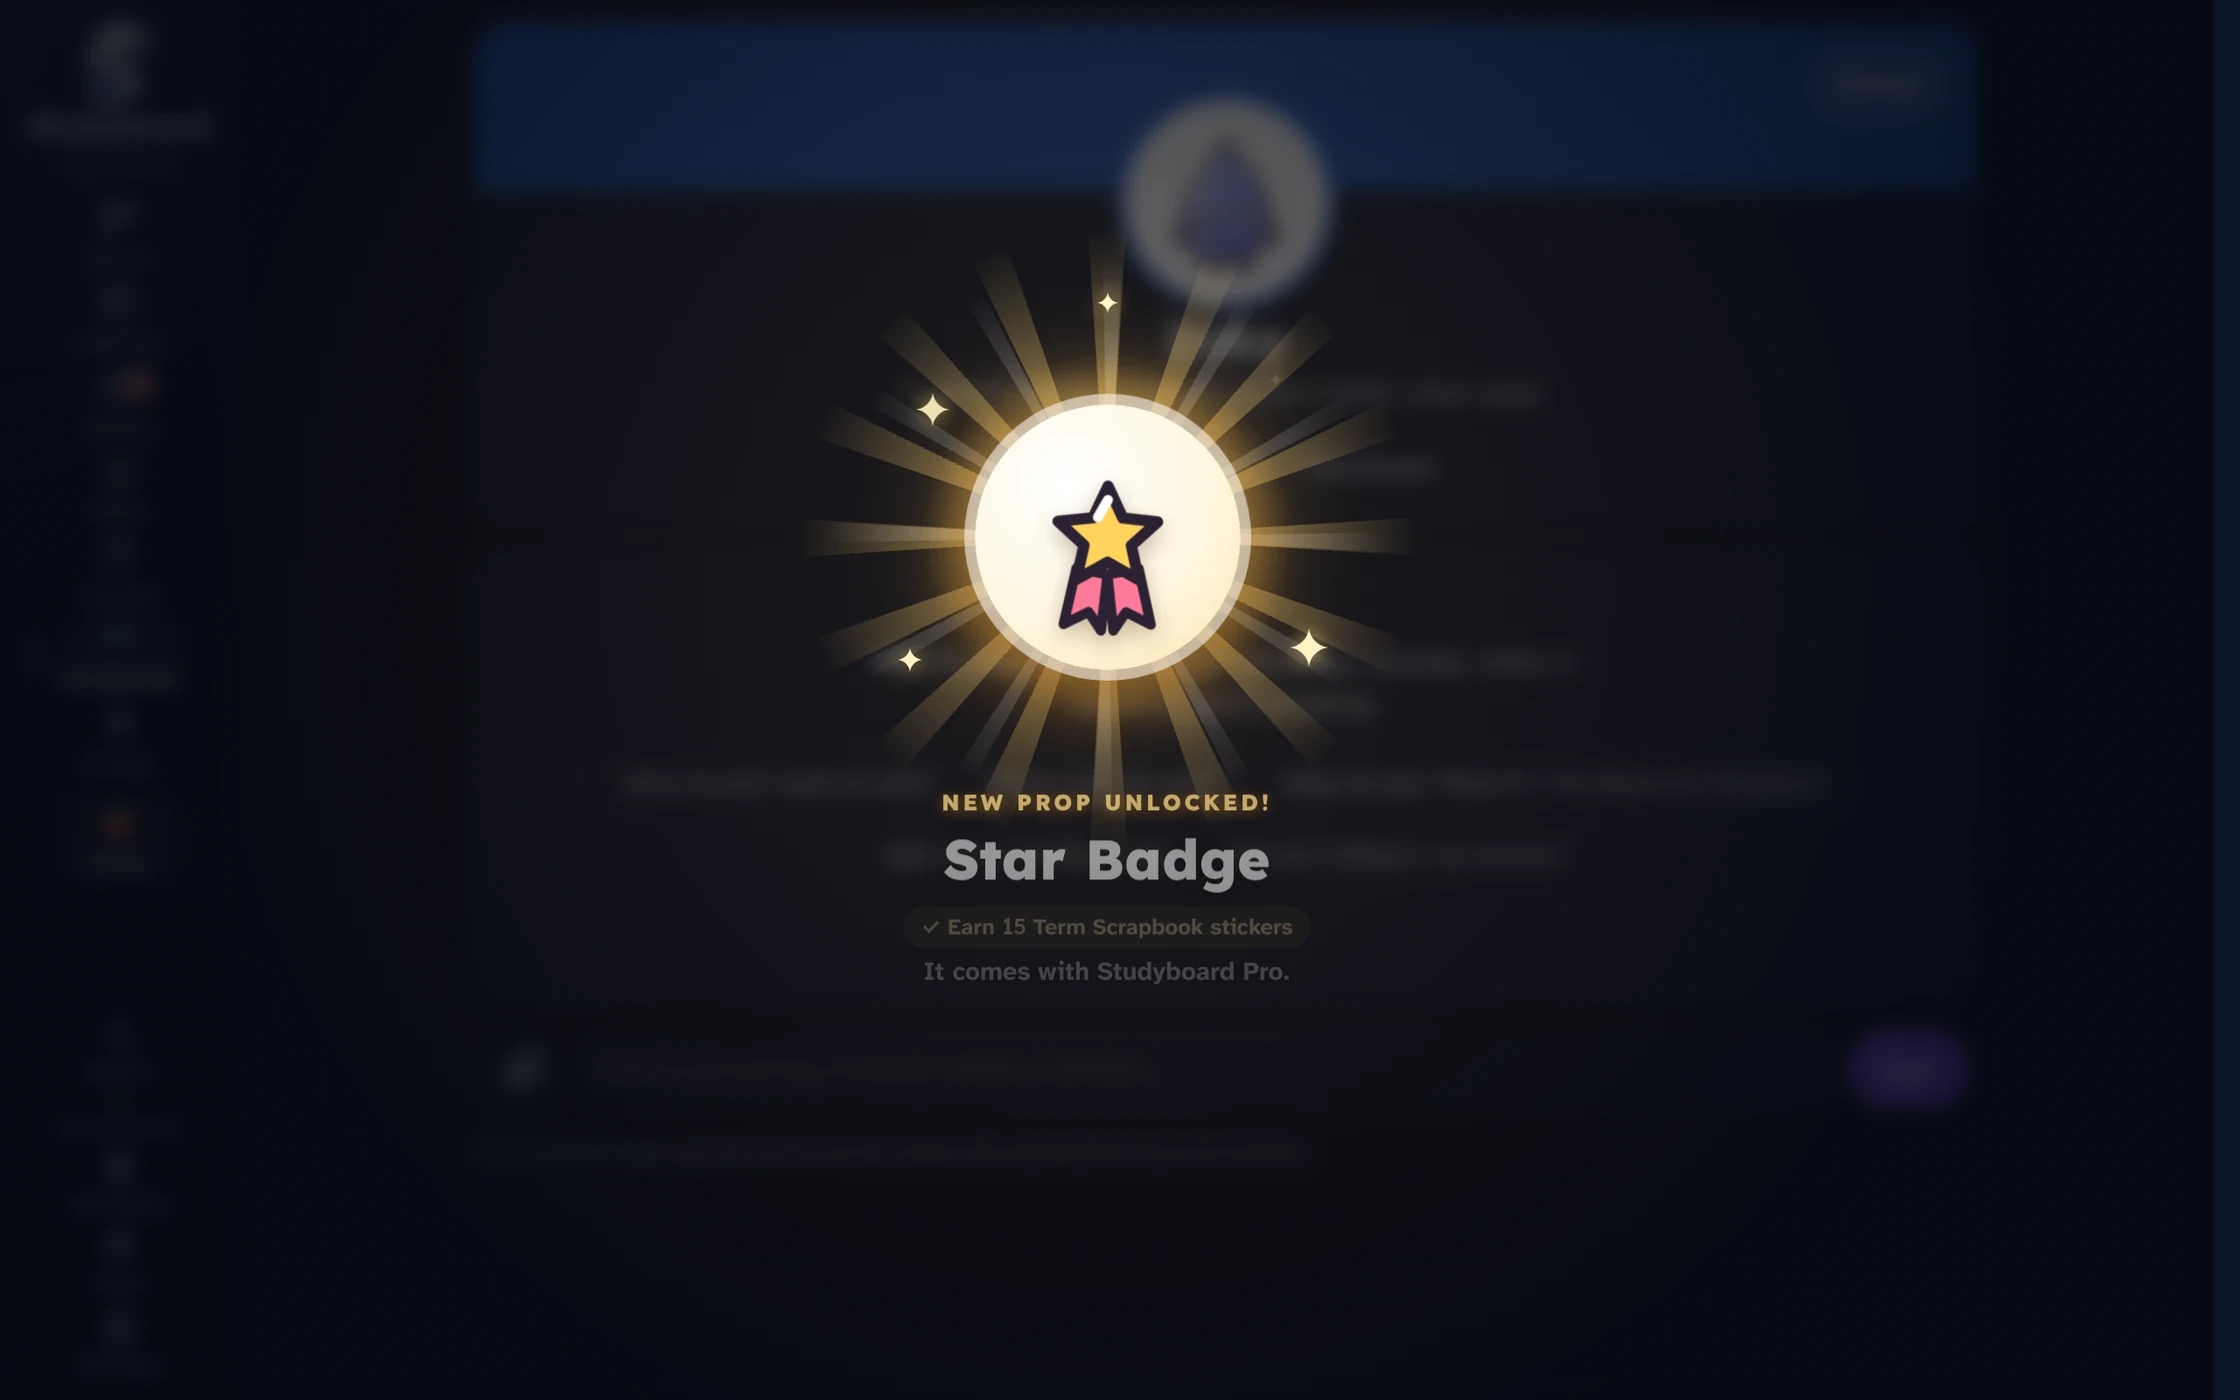
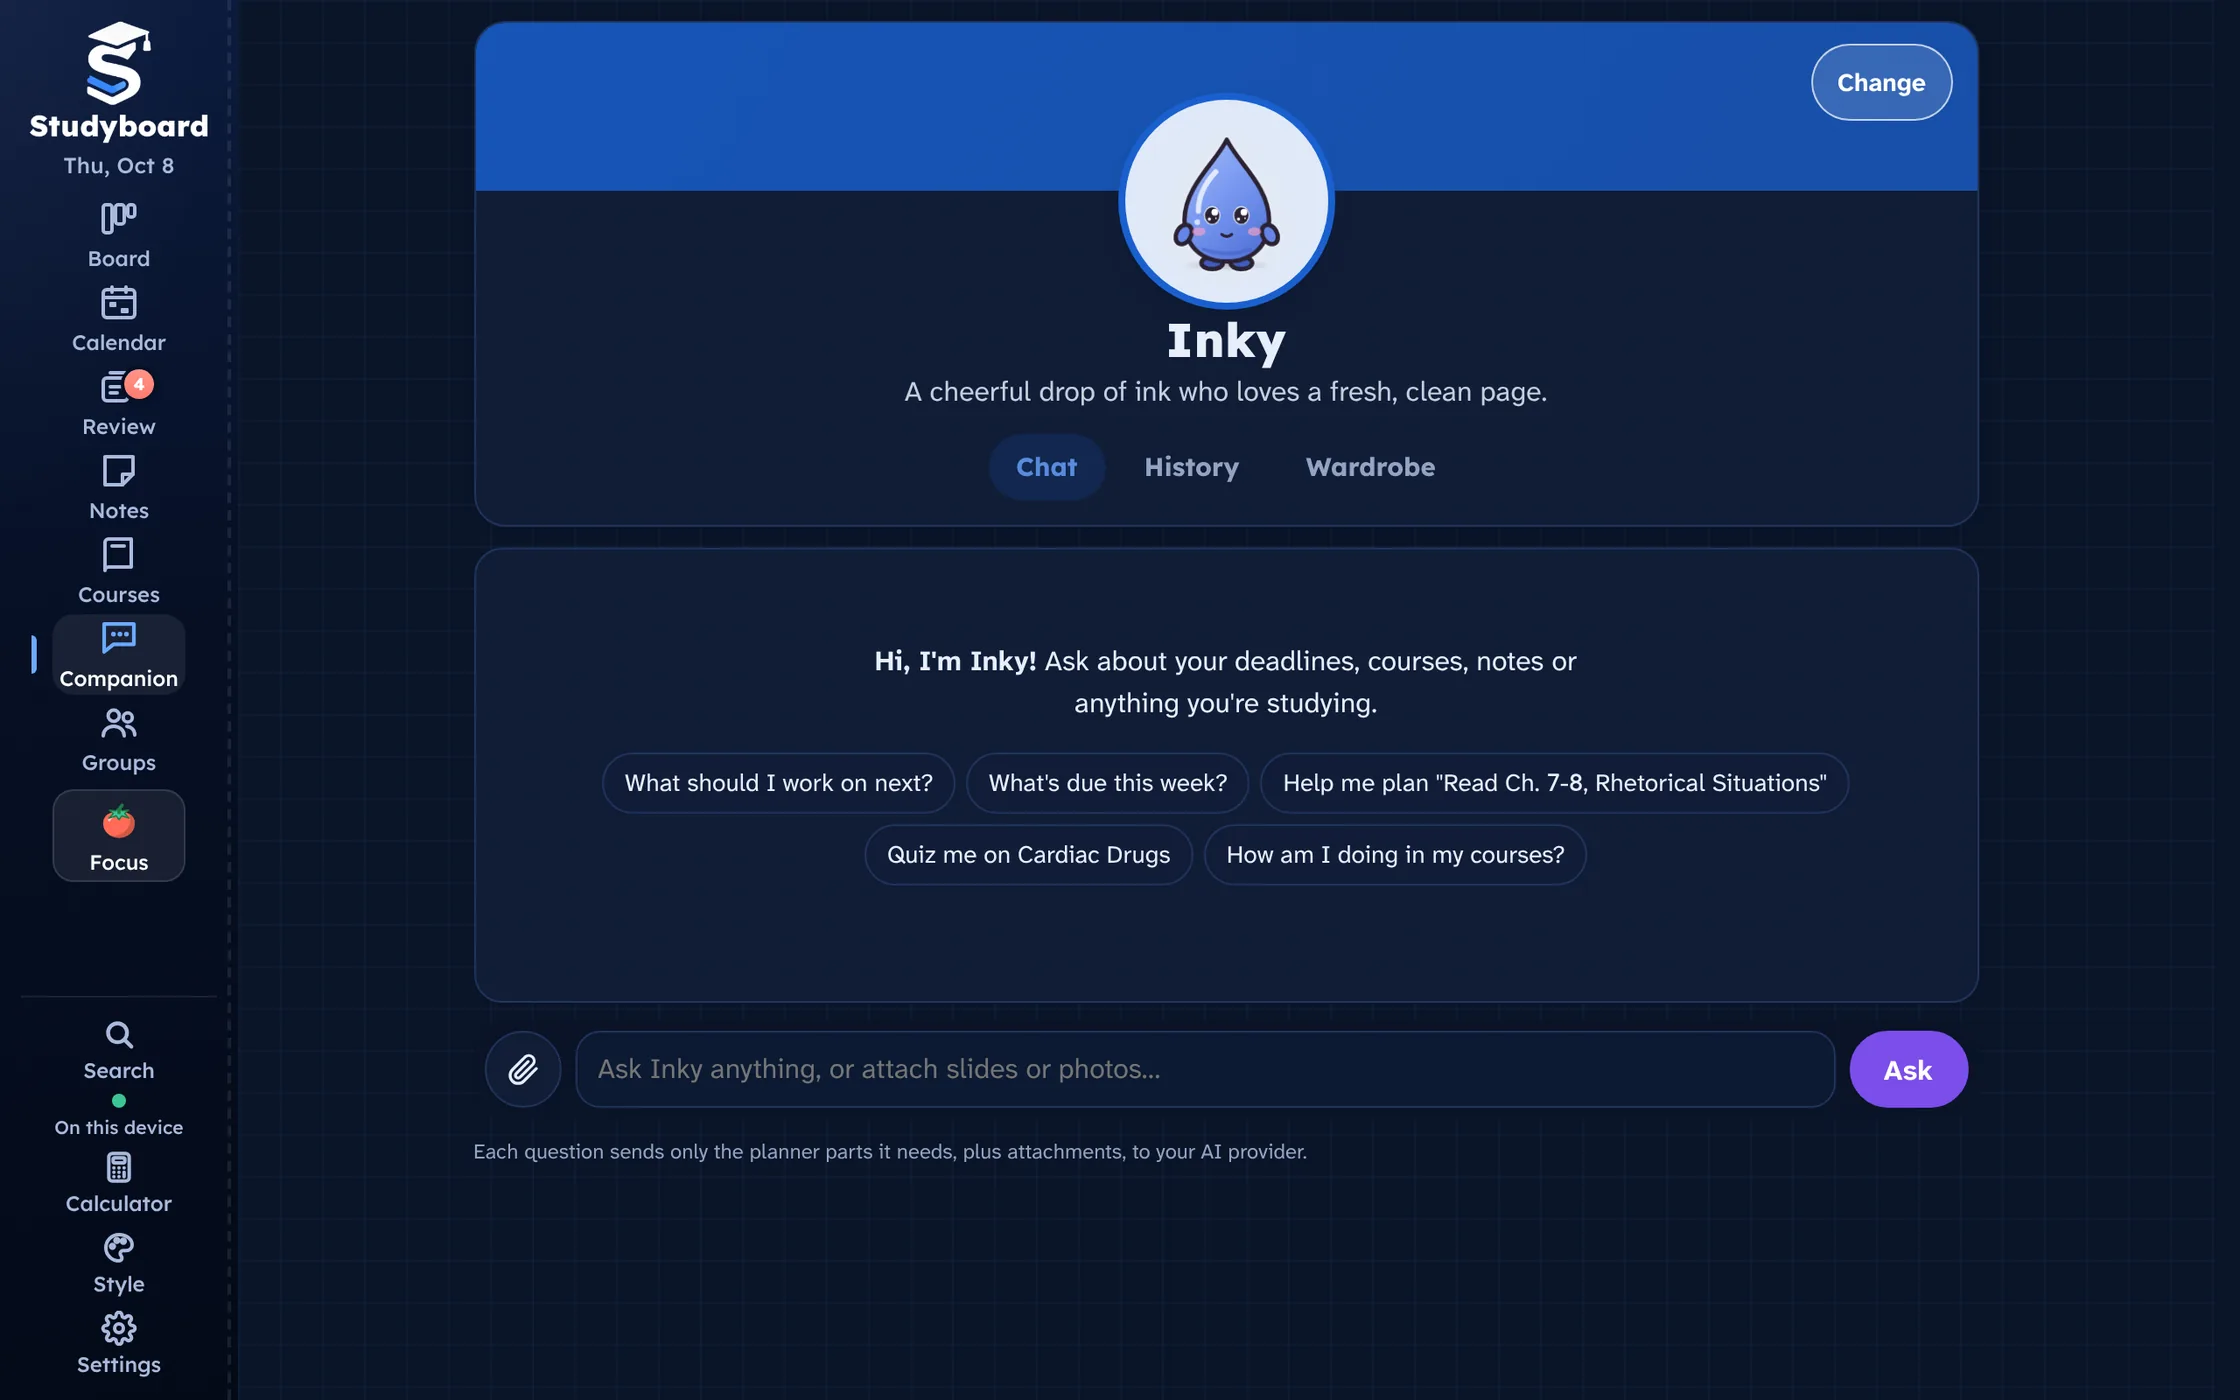
Website: the six companion shots retaken without the "New prop unlocked" celebration over them
capture-site-screens.js hides that celebration, and the student in the shots has earned Sum and Packy, so they show
instead of falling back to Mochi.

Claude-Session: https://claude.ai/code/session_01GobWpUxxgS9HKXXuQ4yMNy

diff --git a/tools/capture-site-screens.js b/tools/capture-site-screens.js
@@ -50,7 +50,9 @@ const SEED = {v: 2,
     {id: "n4", text: "Study group Sunday 3pm, library room 204", x: 90, y: 250, rot: 2, color: "green", z: 4}],
   files: [], events: [], settings: {capacity: 15, dailyHours: 3, style: {skin: "classic"},
     // Packy is the companion the website shows
-    comp: {pick: {plain: 4}}, focusDays: Object.fromEntries(Array.from({length: 12}, (_, i) => [plus(-1 - i), 180]))}, updated: 1};
+    comp: {pick: {plain: 4}},
+    // Sum and Packy are earned (20 quizzes passed, 200 cards reviewed): this student has, so each can be shown
+    earn: {q: 20, c: 200}, focusDays: Object.fromEntries(Array.from({length: 12}, (_, i) => [plus(-1 - i), 180]))}, updated: 1};
 
 // The six default (plain theme) companions
 const PLAIN = ["plain-mochi", "plain-inky", "plain-owl", "plain-hilo", "plain-sum", "plain-packy"];
@@ -70,11 +72,13 @@ const dismiss = async page => {
 async function capture(browser, scheme, compId) {
   const ctx = await browser.newContext({viewport: {width: 1280, height: 800}, colorScheme: scheme, deviceScaleFactor: SCALE, serviceWorkers: "block"});
   await ctx.clock.setFixedTime(NOW);
+  // a "New prop unlocked" celebration (.cpu) would cover the shot: it never shows here
+  await ctx.addInitScript(() => { new MutationObserver(() => document.querySelectorAll(".cpu").forEach(x => { try { x.hidePopover(); } catch (e) {} x.remove(); })).observe(document, {childList: true, subtree: true}); });
   await ctx.addInitScript(([seed, scheme]) => { window.__SB_TEST = true; try { if (!localStorage.getItem("coursework:v2")) {
     localStorage.setItem("coursework:v2", JSON.stringify(seed)); localStorage.setItem("studioso:sb", '"local"'); localStorage.setItem("sb:onboarded", "1"); localStorage.setItem("studyboard:tour", "1"); localStorage.setItem("studioso:theme", scheme); localStorage.setItem("studyboard:tips", "off");
     localStorage.setItem("studyboard:aiKeys", JSON.stringify({gemini: "AIzaSyDEMO-NOT-A-REAL-KEY-FOR-SCREENSHOTS"})); localStorage.setItem("studyboard:aiConsent", JSON.stringify({gemini: {v: 1, at: 1}})); } } catch (e) {} }, [compId ? withComp(compId) : SEED, scheme]);
   const page = await ctx.newPage(); await page.goto("http://localhost:" + server.address().port + "/"); await page.waitForSelector("#view", {state: "attached"}); await page.waitForTimeout(2500);
-  await page.addStyleTag({content: ".toast,#toast{display:none!important}"});
+  await page.addStyleTag({content: ".toast,#toast,.cpu{display:none!important}"});
   await page.evaluate(() => { document.querySelectorAll("dialog[open] [data-act=close], dialog[open] .x").forEach(b => b.click()); });
   await page.keyboard.press("Escape").catch(() => {});
   await dismiss(page);
@@ -120,9 +124,11 @@ const WINDOW = {width: 1200, height: 750}, SHRINK = 1000 / 1200;
 async function openSeeded(browser, scheme, seed, viewport) {
   const ctx = await browser.newContext({viewport, colorScheme: scheme, deviceScaleFactor: SHRINK * SCALE, serviceWorkers: "block"});
   await ctx.clock.setFixedTime(NOW);
+  // a "New prop unlocked" celebration (.cpu) would cover the shot: it never shows here
+  await ctx.addInitScript(() => { new MutationObserver(() => document.querySelectorAll(".cpu").forEach(x => { try { x.hidePopover(); } catch (e) {} x.remove(); })).observe(document, {childList: true, subtree: true}); });
   await ctx.addInitScript(([seed, scheme]) => { try { if (!localStorage.getItem("coursework:v2")) { localStorage.setItem("coursework:v2", JSON.stringify(seed)); localStorage.setItem("studioso:sb", '"local"'); localStorage.setItem("sb:onboarded", "1"); localStorage.setItem("studyboard:tour", "1"); localStorage.setItem("studioso:theme", scheme); } } catch (e) {} }, [seed, scheme]);
   const page = await ctx.newPage(); await page.goto("http://localhost:" + server.address().port + "/?pro=off"); await page.waitForSelector("#view", {state: "attached"}); await page.waitForTimeout(3000);
-  await page.addStyleTag({content: ".toast,#toast{display:none!important}"});
+  await page.addStyleTag({content: ".toast,#toast,.cpu{display:none!important}"});
   await dismiss(page);
   return {ctx, page};
 }
